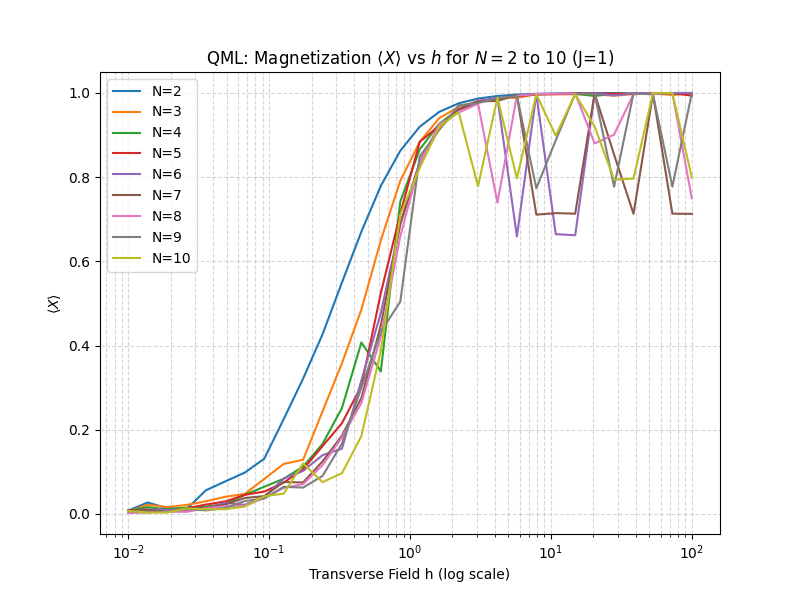
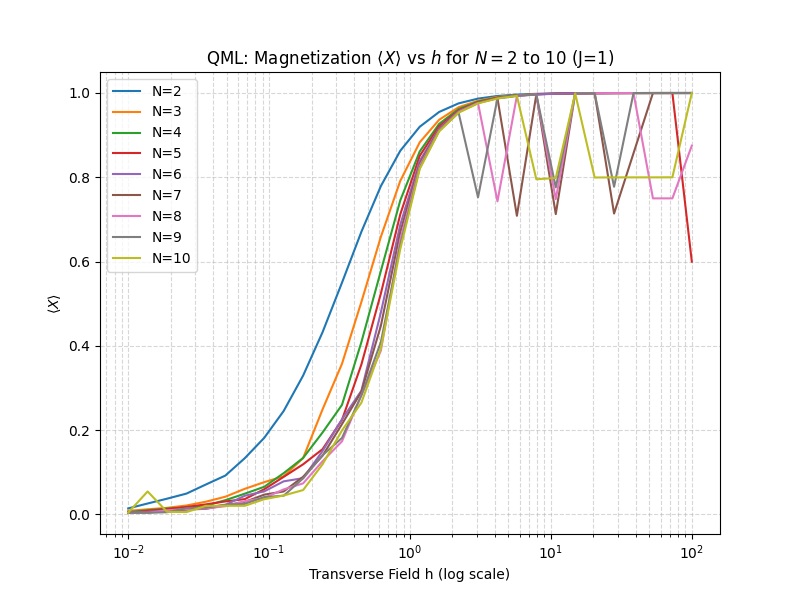
h h

Changed region(s): [[0.1562, 0.15, 0.875, 0.87], [0.375, 0.54, 0.4062, 0.63], [0.0938, 0.84, 0.125, 0.87]]

diff --git a/qml_mat.py b/qml_mat.py
@@ -62,10 +62,10 @@ def compute_mx_vs_h_for_N(n_qubits):
     # warnings.filterwarnings("ignore", category=DeprecationWarning)
     
     mx_list = []
+    E0_list = []  # Initialize E0_list for ground state energy
     for h in h_list:
         J = 1.0
         hamiltonian = build_ising_hamiltonian(n_qubits, J, h)
-        # Using reps=4 as in the notebook for this specific calculation
         ansatz_circuit, ansatz_params = create_physically_inspired_ansatz(n_qubits, h, J, reps=4) 
         estimator = Estimator()
         qnn = EstimatorQNN(
@@ -77,33 +77,35 @@ def compute_mx_vs_h_for_N(n_qubits):
         )
         qnn_model = TorchConnector(qnn)
         optimizer = torch.optim.AdamW(qnn_model.parameters(), lr=0.01)
-        for epoch in range(200): # Reduced epochs for speed as in the notebook
+        for epoch in range(600): # Reduced epochs for speed as in the notebook
             optimizer.zero_grad()
             output = qnn_model()
             loss = output.mean()
             loss.backward()
             optimizer.step()
         final_weights = qnn_model.weight.detach().numpy()
+        # 计算基态能量
+        E0 = Estimator().run(circuits=ansatz_circuit, observables=hamiltonian, parameter_values=[final_weights]).result().values[0]
+        E0_list.append(E0)
+        # 计算 <X>
         x_obs = SparsePauliOp.from_list([(f"{'I'*i + 'X' + 'I'*(n_qubits - i - 1)}", 1.0) for i in range(n_qubits)])
-        # Recreate estimator for thread safety if running in truly parallel Python threads, 
-        # though ProcessPoolExecutor mitigates this by using separate processes.
-        # For Estimator primitive, it should generally be fine.
         mx = Estimator().run(circuits=ansatz_circuit, observables=x_obs, parameter_values=[final_weights]).result().values[0] / n_qubits
         mx_list.append(mx)
     print(f"Finished N={n_qubits}")
-    return mx_list
+    return E0_list, mx_list
 
 if __name__ == '__main__':
     start_time = time.time() # Optional: for timing
 
     mx_vs_h = np.zeros((len(N_list), len(h_list)))
-    
+    E0_vs_h = np.zeros((len(N_list), len(h_list)))
     # Using ProcessPoolExecutor for CPU-bound tasks like these Qiskit simulations
     with concurrent.futures.ProcessPoolExecutor() as executor:
         # map will submit tasks and return results in the order of the input iterable N_list
         results = list(executor.map(compute_mx_vs_h_for_N, N_list))
         
-        for iN, mx_list_result in enumerate(results):
+        for iN, (E0_list_result, mx_list_result) in enumerate(results):
+            E0_vs_h[iN, :] = E0_list_result
             mx_vs_h[iN, :] = mx_list_result
 
     plt.figure(figsize=(8,6))
@@ -122,3 +124,17 @@ if __name__ == '__main__':
     plt.savefig("magnetization_vs_h_multiprocess.png") # Save the plot
     plt.show()
     print("Plot saved as magnetization_vs_h_multiprocess.png")
+
+    # Plotting E0 vs h
+    plt.figure(figsize=(8,6))
+    for iN, N_val in enumerate(N_list):
+        plt.plot(h_list, E0_vs_h[iN], label=f"N={N_val}")
+    plt.xscale('log')
+    plt.xlabel('Transverse Field h (log scale)')
+    plt.ylabel(r'$E_0$')
+    plt.title(r'QML: Ground State Energy $E_0$ vs $h$ for $N=2$ to $10$ (J=1)')
+    plt.legend()
+    plt.grid(True, which='both', ls='--', alpha=0.5)
+    plt.savefig("energy_vs_h_multiprocess.png")
+    plt.show()
+    print("Plot saved as energy_vs_h_multiprocess.png")
